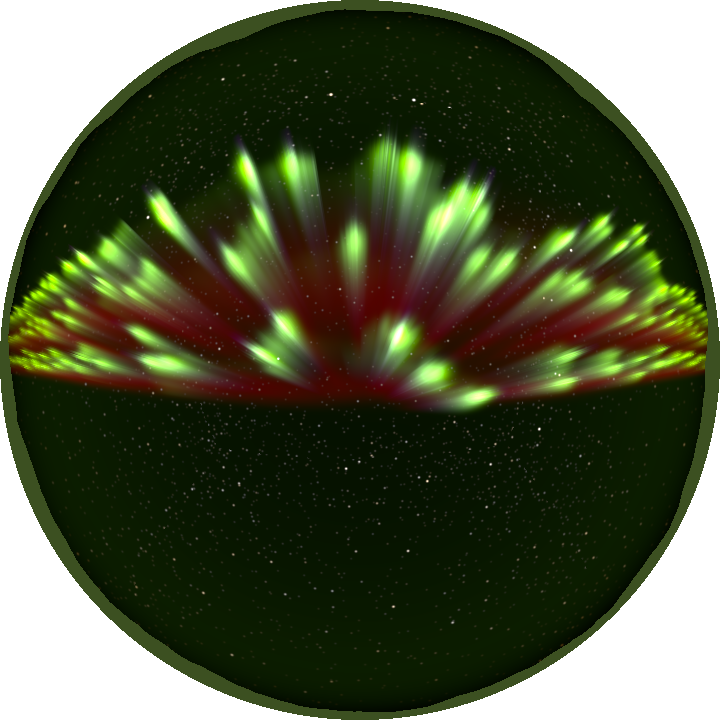
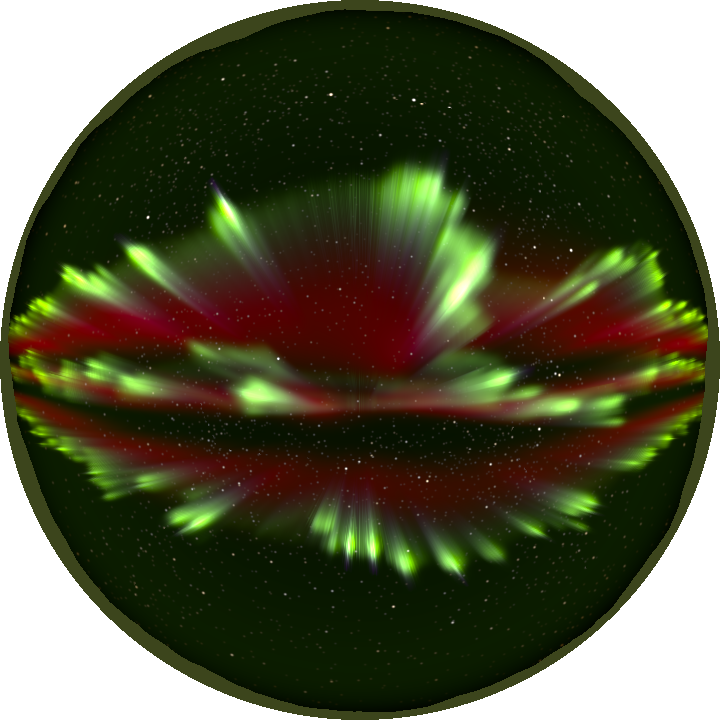
Corona: the middle arc on the observer's own field line; hero and all-sky stills re-rendered
The middle arc now sits 110 cot 77 = 25 km equatorward, on the plane through
the magnetic zenith, which is the only place a field-aligned sheet crosses the
shared vanishing line. tools/verify.sh all green.

diff --git a/source/Presets.h b/source/Presets.h
@@ -77,8 +77,11 @@ inline constexpr Preset kPresets[] = {
 	//One quiet homogeneous arc low in the north: soft sheet, few curls.
 	{ "Quiet Arc",   { 0, 0.62f, 0.68f, 0.5f, 0.375f, 1, 0.4223f, 0.33f, 0.55f, 0.16f, 0.52f, 0.63f, 0.80f, 0.3f, 0.66f, 0.12f, 0.2f, 0.55f, 0.3162f, 0.3333f, 0, 0.5f, 0.22f, 0.4f, 0.5f, 0.45f, 0, 0.4f, 1, 2 } },
 	//Overhead, looking up the field: three disturbed arcs converging on the
-	//magnetic zenith, which is 13 degrees south of the zenith at dip 77.
-	{ "Corona",      { 0, 0.29f, 0.68f, 0.5f, 0.5f, 3, 0.3f, 0.78f, 0.35f, 0.45f, 0.5f, 0.68f, 0.93f, 0.85f, 0.35f, 0.7f, 0.5f, 0.6333f, 0.3162f, 0.3333f, 0, 1.0f, 0.87f, 0.78f, 0.5f, 0.3f, 0, 0.4f, 1, 0 } },
+	//magnetic zenith, 13 degrees south of the zenith at dip 77. The middle arc
+	//sits on the observer's own field line (110 cot 77 = 25 km equatorward):
+	//field-aligned sheets all share one vanishing line through the magnetic
+	//zenith, and only an arc through that plane crosses it (AGENTS.md).
+	{ "Corona",      { 0, 0.2525f, 0.68f, 0.5f, 0.5f, 3, 0.45f, 0.78f, 0.45f, 0.55f, 0.5f, 0.68f, 0.93f, 0.85f, 0.35f, 0.7f, 0.5f, 0.6333f, 0.3162f, 0.3333f, 0, 1.0f, 0.87f, 0.5556f, 0.5f, 0.3f, 0, 0.4f, 1, 0 } },
 	//Solar maximum, soft precipitation: the red line dominates and lingers.
 	{ "Red Storm",   { 0, 0.45f, 0.68f, 0.5f, 0.5f, 2, 0.68f, 0.4f, 0.5f, 0.35f, 0.5f, 0.2f, 0.85f, 0.4f, 0.7f, 0.2f, 1.0f, 0.83f, 0.3162f, 0.3333f, 0, 0.5f, 0.4f, 0.6f, 0.5f, 0.5f, 0, 0.4f, 1, 2 } },
 	//A single band of strong rays.
